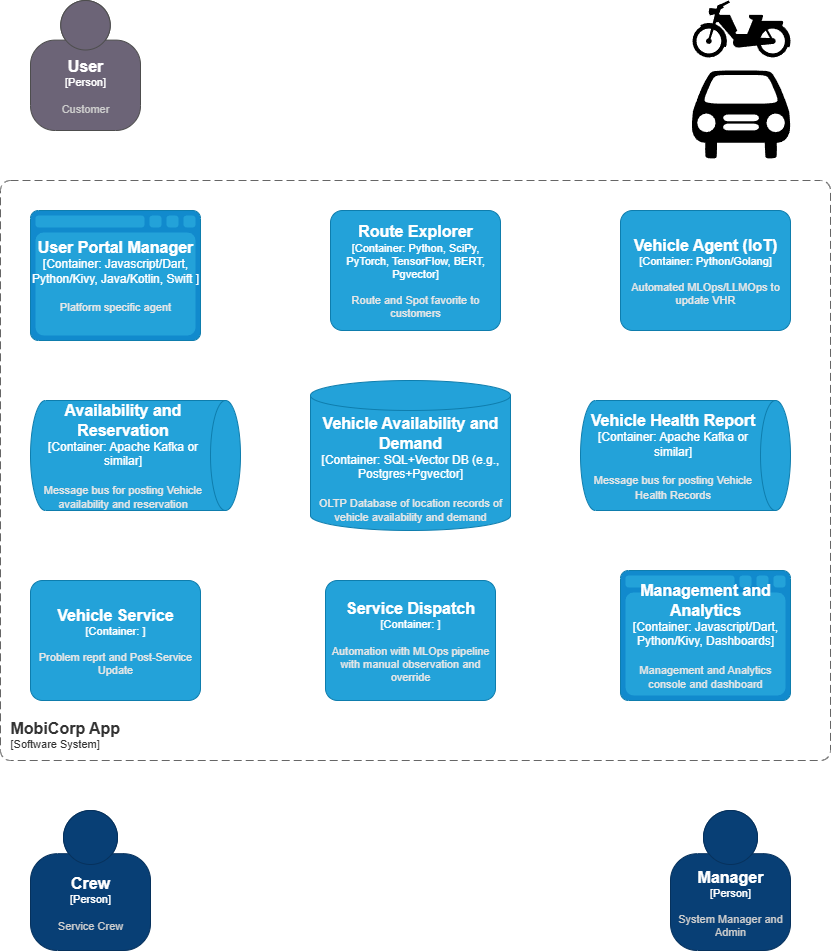
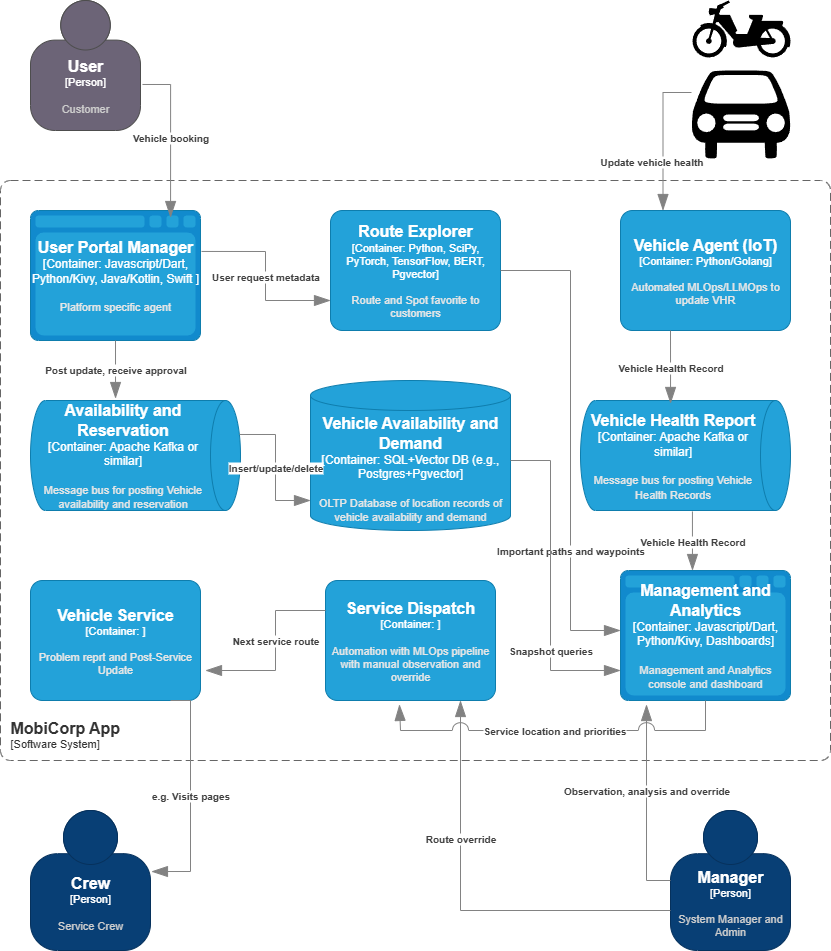
Correction to diagrams and ADRs

diff --git a/ADR/system-manager/TrainingOnBookingHistory.md b/ADR/system-manager/TrainingOnBookingHistory.md
@@ -1,4 +1,4 @@
-# ADR <NUMBER>: <Title>
+# ADR 002: Local ML model training on booking data records
 
 **Status:** Accepted
 
